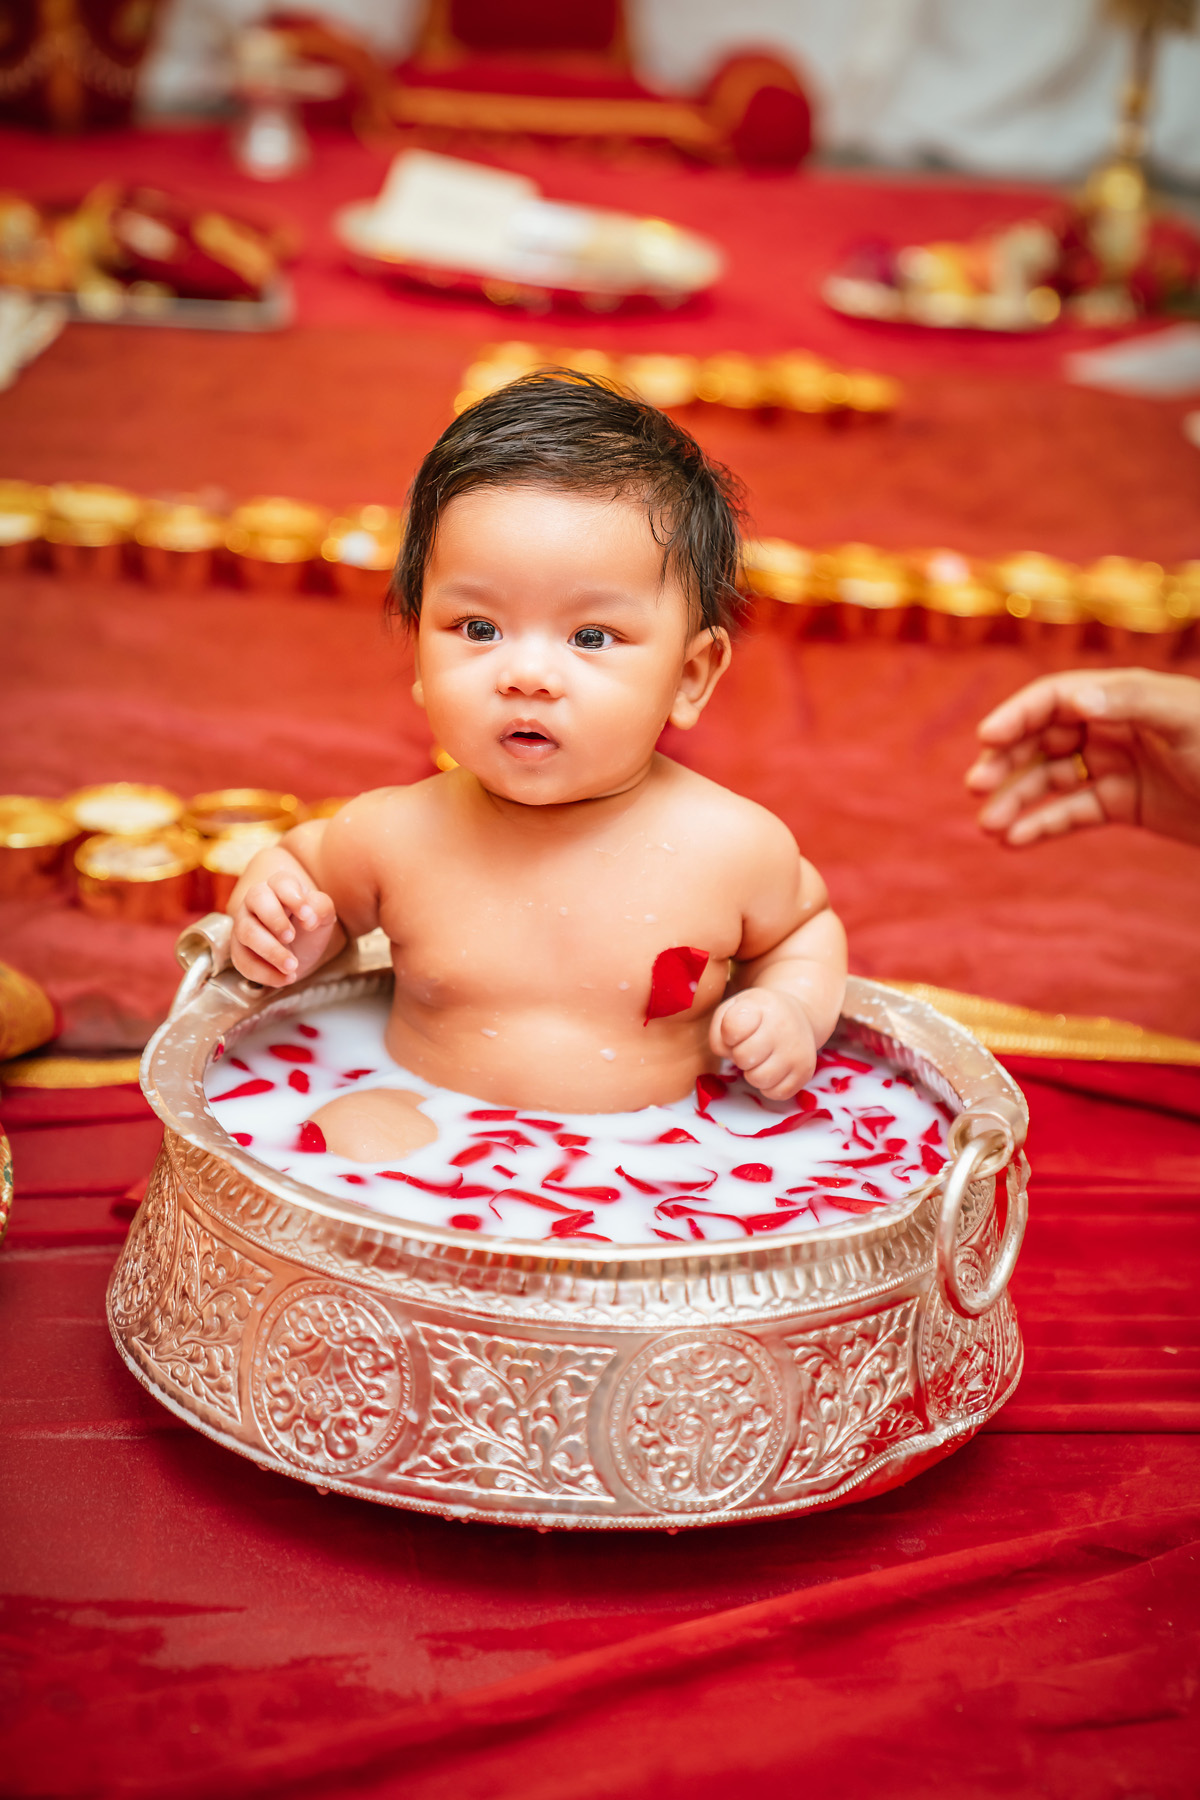
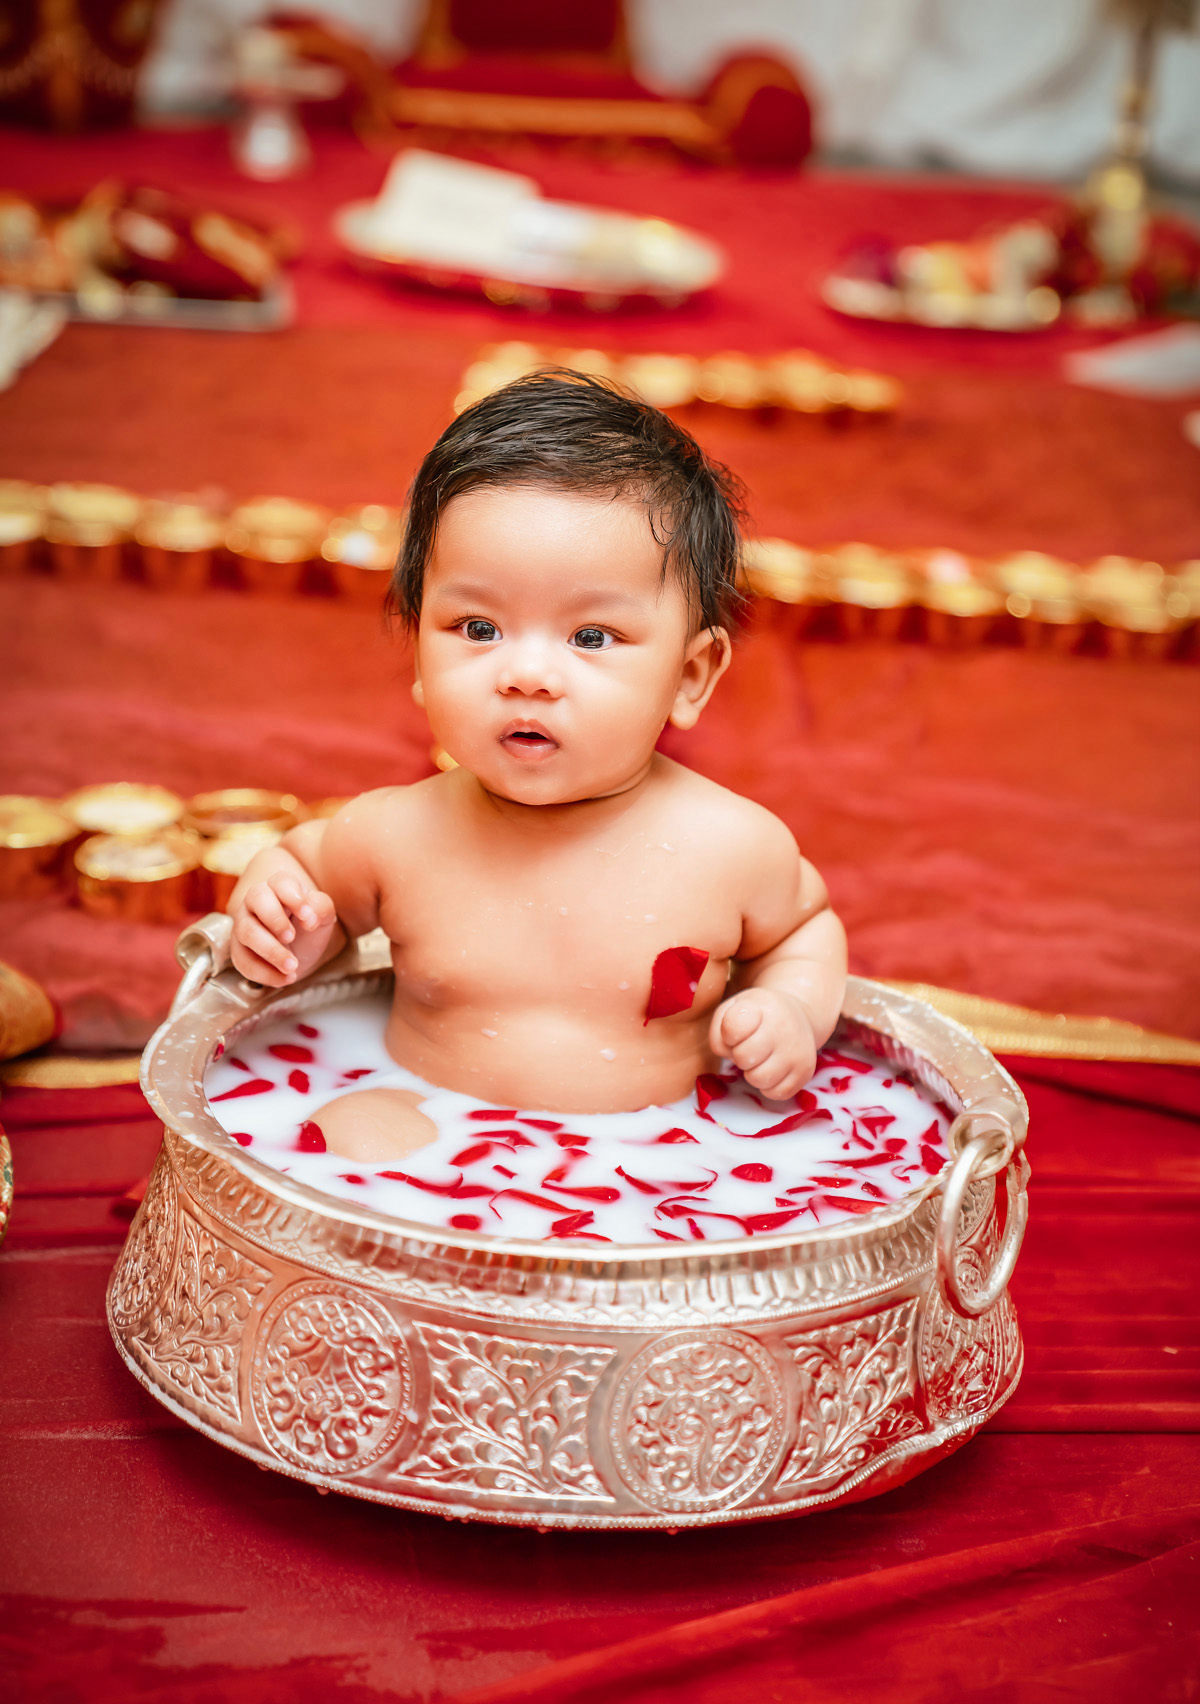
Update10 – Image

diff --git a/index.html b/index.html
@@ -298,7 +298,7 @@
                             </div>
                         </div>
                         <div class="portfolio-item group relative overflow-hidden rounded-lg shadow-lg hover:shadow-2xl transition-all duration-500 cursor-pointer" data-category="event" data-aos="zoom-in" data-aos-delay="200">
-                            <img src="wp-content/uploads/events/events (38).jpg" alt="Event Venue and Decor" class="w-full h-80 object-cover group-hover:scale-110 transition-transform duration-500">
+                            <img src="wp-content/uploads/annaprashana/annaprashana (50).jpg" alt="Event Venue and Decor" class="w-full h-80 object-cover group-hover:scale-110 transition-transform duration-500">
                             <div class="absolute inset-0 bg-gradient-to-t from-black/90 via-black/50 to-transparent opacity-0 group-hover:opacity-100 transition-opacity duration-300 flex items-end p-6">
                                 <div class="text-white">
                                     <div class="text-xs uppercase tracking-wider text-red-400 mb-2">Event</div>
